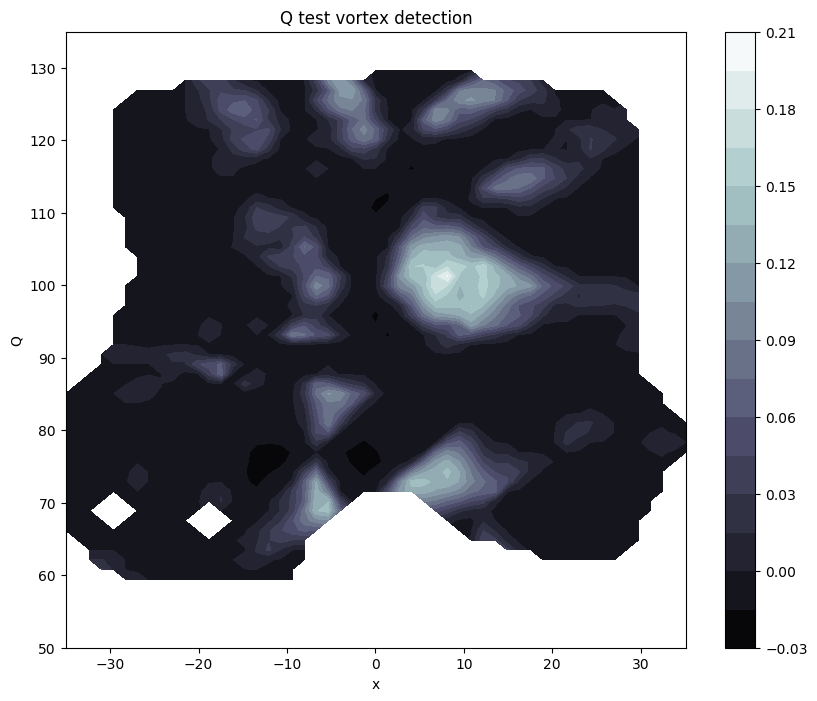
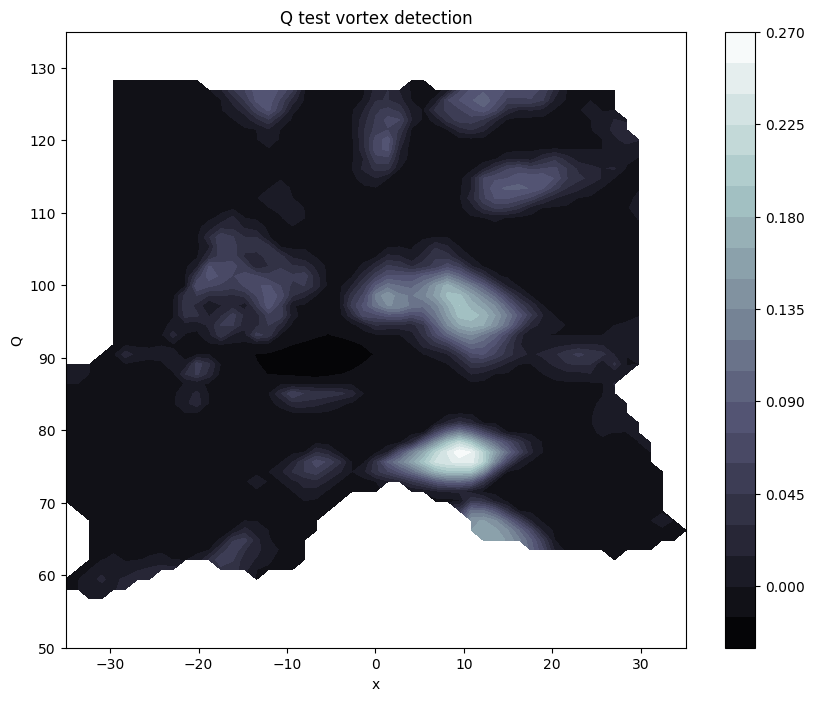
'update'

diff --git a/src/main.py b/src/main.py
@@ -25,12 +25,12 @@ if __name__ == '__main__':
     # plot_data_3d(xx, yy, vel[2, :, :])
     #
     # # countour plotting
-    #countour_data_plot(xx, yy, vel[0, :, :], 'Normalized x velocity', 'u/U', save=False)
-    #countour_data_plot(xx, yy, vel[1, :, :], 'Normalized y velocity', 'v/U', save=False)
-    #countour_data_plot(xx, yy, vel[2, :, :], 'Normalized z velocity', 'w/U', save=False)
+    #countour_data_plot(xx, yy, vel[0, :, :], color2, 'Normalized x velocity', 'u/U', save=False)
+    #countour_data_plot(xx, yy, vel[1, :, :], color2, 'Normalized y velocity', 'v/U', save=False)
+    #countour_data_plot(xx, yy, vel[2, :, :], color2, 'Normalized z velocity', 'w/U', save=False)
 
-    #quiver_data_plot(xx, yy, vel[2, :, :], vel[:2, :, :], 'Normalized z velocity', 'w/U', save=False)
-    #quiver_data_plot(xx, yy, vel[2, :, :], vel[:2, :, :], 'Normalized z velocity', 'w/U', save=True)
+    #quiver_data_plot(xx, yy, vel[2, :, :], vel[:2, :, :], color2, 'Normalized z velocity', 'w/U', save=False)
+    #quiver_data_plot(xx, yy, vel[2, :, :], vel[:2, :, :], color2, 'Normalized z velocity', 'w/U', save=True)
 
 
 
@@ -38,7 +38,7 @@ if __name__ == '__main__':
     u_grad, v_grad, w_grad = vorticity_strain.velocity_gradients(vel)
     u_grad, v_grad, w_grad = np.asarray(u_grad), np.asarray(v_grad), np.asarray(w_grad)
 
-    # quiver_data_plot(xx, yy, vel[0, :, :], u_grad, 'u', 'u/U', save=False)
+    # quiver_data_plot(xx, yy, vel[0, :, :], u_grad, color2, 'u', 'u/U', save=False)
 
     vorticity_value = vorticity_strain.find_vorticity(u_grad, v_grad)
     strain = vorticity_strain.find_strain(u_grad, v_grad)
@@ -52,7 +52,7 @@ if __name__ == '__main__':
     ###countour_data_plot(xx, yy, strain, color1, 'Strain', r'S', save=False)
     ###countour_data_plot(xx, yy, vorticity_value, color1, 'Vorticity', 'Omega [1\s]', save=False)
     ###vortexcenter_scatter_plot(xx, yy, vorticity_value, vortex_detection.discrete_method(vel), 'Vorticity', 'Omega [1\s]', save=False)
-    # quiver_data_plot(xx, yy, vel[2, :, :], vel[:2, :, :],
+    # quiver_data_plot(xx, yy, vel[2, :, :], vel[:2, :, :], color2,
     #                 'Normalized z velocity', 'w/U', vortex_centers=vortex_detection.discrete_method(vel),
     #                 save=True, show=False)
     # AddMannequin()
@@ -74,7 +74,7 @@ if __name__ == '__main__':
     mask = np.where(q > 0)
     q[mask] *= 10
 
-    #countour_data_plot(xx, yy, q, 'Q test vortex detection', 'Q', save=False)
+    #countour_data_plot(xx, yy, q, color2, 'Q test vortex detection', 'Q', save=False)
     countour_data_plot(xx, yy, q, color2, 'Q test vortex detection', 'Q', save=True, show=False)
     AddMannequin()
 
@@ -83,6 +83,6 @@ if __name__ == '__main__':
     mask = np.where(delta > 0)
     delta[mask] *= 10
 
-    #countour_data_plot(xx, yy, delta, 'Delta vortex detection', 'Delta', save=False)
+    #countour_data_plot(xx, yy, delta, color2, 'Delta vortex detection', 'Delta', save=False)
     countour_data_plot(xx, yy, delta, color2, 'Delta vortex detection', 'Delta', save=True, show=False)
     AddMannequin()
